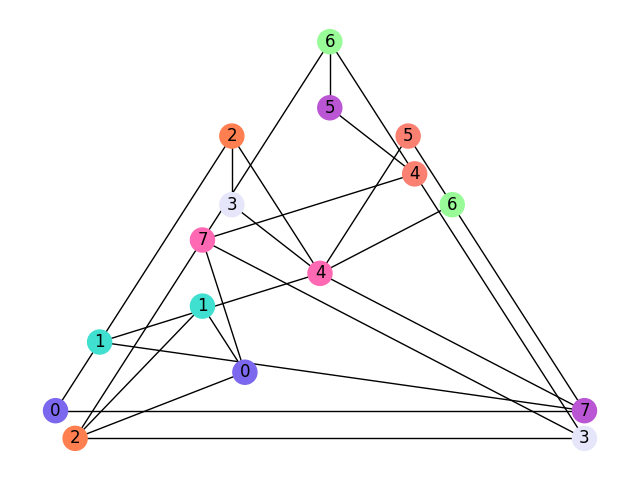
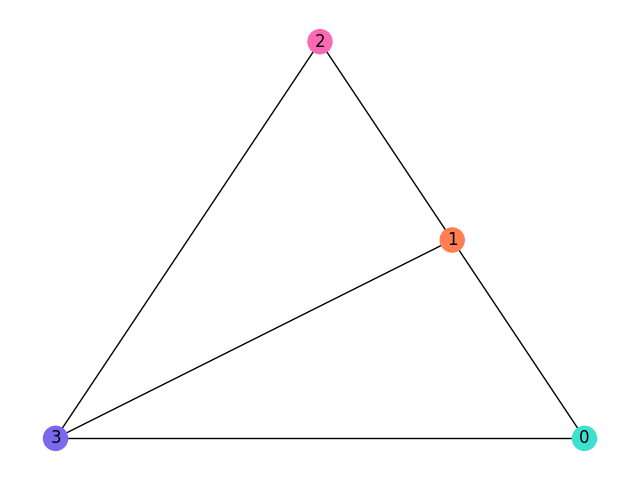
multiple rectangular

diff --git a/source/inputgraph.py b/source/inputgraph.py
@@ -119,6 +119,7 @@ class InputGraph:
         self.coordinates = [np.array(x) for x in node_coordinates]
         self.circular_traversal = []
         self.final_traversal=[]
+        self.graph_list =[]
 
         # Check if input has crossings
         x_coord = [x[0] for x in node_coordinates]
@@ -456,15 +457,15 @@ class InputGraph:
         # Biconnectivity Augmentation
         if (self.nodecnt == 2 and self.edgecnt == 1):
             self.fpcnt = 1
-            self.room_x = np.array([[0.0, 1.0]])
-            self.room_y = np.array([[0.0, 0.0]])
-            self.room_width = np.array([[1.0, 1.0]])
-            self.room_height = np.array([[1.0, 1.0]])
-            self.area = [[1.0, 1.0]]
-            self.mergednodes = [[]]
-            self.irreg_nodes1 = [[]]
-            self.irreg_nodes2 = [[]]
-            self.extranodes = [[]]
+            self.room_x = np.array([0.0, 1.0])
+            self.room_y = np.array([0.0, 0.0])
+            self.room_width = np.array([1.0, 1.0])
+            self.room_height = np.array([1.0, 1.0])
+            self.area =[1.0, 1.0]
+            self.mergednodes = []
+            self.irreg_nodes1 = []
+            self.irreg_nodes2 = []
+            self.extranodes = []
             self.rel_matrix_list = [np.array(
                 [[0, 3, 2, 0, 0, 0], [0, 0, 2, 3, 0, 0], [0, 0, 0, 1, 0, 1], [0, 0, 1, 0, 1, 0], [2, 2, 0, 1, 0, 1],
                  [3, 0, 1, 0, 1, 0]])]
@@ -507,13 +508,12 @@ class InputGraph:
             ptpg_matrices, extra_nodes = st.handle_STs(self.matrix, positions, 20)
 
             for cnt in range(len(ptpg_matrices)):
-# nodecnt, edgecnt, edgeset, node_coordinates)
-                nodecnt = ptpg_matrices[cnt].shape[0]
-                edgecnt = int(np.count_nonzero(ptpg_matrices[cnt] == 1) / 2)
-                g = nx.from_numpy_matrix(ptpg_matrices[cnt], create_using=nx.DiGraph)
-                edgeset = g.edges()
+                # nodecnt = ptpg_matrices[cnt].shape[0]
+                # edgecnt = int(np.count_nonzero(ptpg_matrices[cnt] == 1) / 2)
+                # g = nx.from_numpy_matrix(ptpg_matrices[cnt], create_using=nx.DiGraph)
+                # edgeset = g.edges()
                 
-                new_graph = InputGraph(nodecnt, edgecnt, edgeset) 
+                # new_graph = InputGraph(nodecnt, edgecnt, edgeset) 
 
                 self.matrix = ptpg_matrices[cnt]
                 self.nodecnt = self.matrix.shape[0]
@@ -532,14 +532,24 @@ class InputGraph:
                     matrix = copy.deepcopy(self.matrix)
                     rel_matrices = generate_multiple_rel(
                         bdys, matrix, self.nodecnt, self.edgecnt)
+                    
+
+                    g = nx.from_numpy_array(self.matrix, create_using=nx.DiGraph)
+                    edgeset = g.edges()
+                    
+                    new_graph = InputGraph(self.nodecnt, self.edgecnt, edgeset, self.coordinates)
+
                     for i in rel_matrices:
                         self.fpcnt += 1
+                        new_graph.rel_matrix_list = i
                         self.rel_matrix_list.append(i)
-                        self.mergednodes.append(mergednodes)
-                        self.irreg_nodes1.append(irreg_nodes1)
-                        self.irreg_nodes2.append(irreg_nodes2)
-                        self.extranodes.append(extranodes)
-                        self.nodecnt_list.append(self.nodecnt)
+                        new_graph.mergednodes= mergednodes
+                        new_graph.irreg_nodes1= irreg_nodes1
+                        new_graph.irreg_nodes2= irreg_nodes2
+                        new_graph.extranodes= extranodes
+                        new_graph.nodecnt_list= self.nodecnt
+                        self.graph_list.append(new_graph)
+
         else:
             mergednodes = []
             irreg_nodes1 = []
@@ -563,29 +573,36 @@ class InputGraph:
                 matrix = copy.deepcopy(self.matrix)
                 rel_matrices = generate_multiple_rel(
                     bdys, matrix, self.nodecnt, self.edgecnt)
+                
+                g = nx.from_numpy_array(self.matrix, create_using=nx.DiGraph)
+                edgeset = g.edges()
+                
+                new_graph = InputGraph(self.nodecnt, self.edgecnt, edgeset, self.coordinates)
+                
                 for i in rel_matrices:
                     self.fpcnt += 1
+                    new_graph.rel_matrix_list = i
                     self.rel_matrix_list.append(i)
-                    self.mergednodes.append([])
-                    self.irreg_nodes1.append([])
-                    self.irreg_nodes2.append([])
-                    self.extranodes.append(extranodes)
-                    self.nodecnt_list.append(self.nodecnt)
+                    new_graph.mergednodes = []
+                    new_graph.irreg_nodes1 = []
+                    new_graph.irreg_nodes2 = []
+                    new_graph.extranodes = extranodes
+                    new_graph.nodecnt_list = self.nodecnt
+                    self.graph_list.append(new_graph)
 
-        self.room_x = []
-        self.room_y = []
-        self.room_width = []
-        self.room_height = []
-        self.area = []
+
+        # self.room_x = []
+        # self.room_y = []
+        # self.room_width = []
+        # self.room_height = []
+        # self.area = []
+                    
         for cnt in range(self.fpcnt):
-            [room_x, room_y, room_width, room_height] = rdg.construct_dual(self.rel_matrix_list[cnt],
-                                                                           self.nodecnt_list[cnt] + 4,
-                                                                           self.mergednodes[cnt],
-                                                                           self.irreg_nodes1[cnt])
-            self.room_x.append(room_x)
-            self.room_y.append(room_y)
-            self.room_width.append(room_width)
-            self.room_height.append(room_height)
+            [self.graph_list[cnt].room_x, self.graph_list[cnt].room_y, self.graph_list[cnt].room_width, self.graph_list[cnt].room_height] = rdg.construct_dual(self.graph_list[cnt].rel_matrix_list,
+                                                                           self.graph_list[cnt].nodecnt_list + 4,
+                                                                           self.graph_list[cnt].mergednodes,
+                                                                           self.graph_list[cnt].irreg_nodes1)
+            
 
     def multiple_floorplan(self, min_width, min_height, max_width, max_height, symm_rooms, min_ar, max_ar, plot_width,
                            plot_height):

diff --git a/pythongui/catalogue_maker.py b/pythongui/catalogue_maker.py
@@ -113,7 +113,7 @@ def get_scale(rfp_data, grid_w=100, grid_h=100): #Calculates the scaling factor 
     return scale
 
 def draw_one_rfp(pdf: PDF, x, y, rfp_data, room_name = [], grid_w=100, grid_h=100, dimensioned = 0, scale_val = 1, is_rb = False):
-    em = make_encoded_matrix(len(rfp_data['room_x']), rfp_data['room_x'], rfp_data['room_y'], rfp_data['room_width'], rfp_data['room_height'])
+    em = make_encoded_matrix(len(rfp_data.room_x), rfp_data.room_x, rfp_data.room_y, rfp_data.room_width, rfp_data.room_height)
 
     # scale = get_scale(rfp_data, grid_w, grid_h)
     scale = scale_val
@@ -121,23 +121,23 @@ def draw_one_rfp(pdf: PDF, x, y, rfp_data, room_name = [], grid_w=100, grid_h=10
     
     flag = 0
     i=0
-    for each_room in range(len(rfp_data['room_x'])):
-        if each_room in rfp_data['extranodes']:
+    for each_room in range(len(rfp_data.room_x)):
+        if each_room in rfp_data.extranodes:
             continue
-        if each_room in rfp_data['mergednodes']:
+        if each_room in rfp_data.mergednodes:
             rgb_colors[each_room] = rgb_colors[
-                int (rfp_data['irreg_nodes'][
-                    rfp_data['mergednodes'].index(each_room)
+                int (rfp_data.irreg_nodes[
+                    rfp_data.mergednodes.index(each_room)
                     ])
                     ]
             flag = 1      
         pdf.set_fill_color(*rgb_colors[each_room])
         pdf.set_draw_color(0,0,0)
         pdf.rect( 
-        x + scale * round(rfp_data['room_x'][each_room], 1) ,
-        y + scale * round(rfp_data['room_y'][each_room], 1) , 
-        scale * round(rfp_data['room_width'][each_room], 1) , 
-        scale * round(rfp_data['room_height'][each_room], 1) ,
+        x + scale * round(rfp_data.room_x[each_room], 1) ,
+        y + scale * round(rfp_data.room_y[each_room], 1) , 
+        scale * round(rfp_data.room_width[each_room], 1) , 
+        scale * round(rfp_data.room_height[each_room], 1) ,
         'DF')
 
         if flag == 1:
@@ -172,18 +172,18 @@ def draw_one_rfp(pdf: PDF, x, y, rfp_data, room_name = [], grid_w=100, grid_h=10
                     if e != each_room:
                         bm.append(e)
             
-            i = rfp_data['mergednodes'].index(each_room)
-            irreg = rfp_data['irreg_nodes'][i]
+            i = rfp_data.mergednodes.index(each_room)
+            irreg = rfp_data.irreg_nodes[i]
 
-            x_m = rfp_data['room_x'][each_room]
-            y_m = rfp_data['room_y'][each_room]
-            w_m = rfp_data['room_width'][each_room]
-            h_m = rfp_data['room_height'][each_room]
+            x_m = rfp_data.room_x[each_room]
+            y_m = rfp_data.room_y[each_room]
+            w_m = rfp_data.room_width[each_room]
+            h_m = rfp_data.room_height[each_room]
 
-            x_i = rfp_data['room_x'][irreg]
-            y_i = rfp_data['room_y'][irreg]
-            w_i = rfp_data['room_width'][irreg]
-            h_i = rfp_data['room_height'][irreg]
+            x_i = rfp_data.room_x[irreg]
+            y_i = rfp_data.room_y[irreg]
+            w_i = rfp_data.room_width[irreg]
+            h_i = rfp_data.room_height[irreg]
 
             a,b,c = rgb_colors[each_room]
             pdf.set_draw_color(a,b,c)
@@ -211,15 +211,15 @@ def draw_one_rfp(pdf: PDF, x, y, rfp_data, room_name = [], grid_w=100, grid_h=10
             pdf.set_draw_color(0,0,0)             
 
         if dimensioned == 1:
-            if each_room not in rfp_data['mergednodes']:
+            if each_room not in rfp_data.mergednodes:
                 
                 if scale<1.5:
                     pdf.set_font_size(3*scale)
-                    if (rfp_data['room_y'][each_room]/rfp_data['room_x'][each_room]>0.8 
-                        and rfp_data['room_y'][each_room]/rfp_data['room_x'][each_room]<=1.2):
+                    if (rfp_data.room_y[each_room]/rfp_data.room_x[each_room]>0.8 
+                        and rfp_data.room_y[each_room]/rfp_data.room_x[each_room]<=1.2):
                         x_disp = 0.8
                         y_disp = 5*scale*0.9
-                    elif (rfp_data['room_y'][each_room]/rfp_data['room_x'][each_room]>1.2):    
+                    elif (rfp_data.room_y[each_room]/rfp_data.room_x[each_room]>1.2):    
                         x_disp = 0.8
                         y_disp = 7*scale*0.9
                     else:
@@ -236,26 +236,26 @@ def draw_one_rfp(pdf: PDF, x, y, rfp_data, room_name = [], grid_w=100, grid_h=10
                     pdf.set_font_size(0.8*scale)
                     
                 print(x,y)
-                print(rfp_data['room_x'][each_room], rfp_data['room_y'][each_room])
-                print("X={0}, Y={1}".format(x + scale * int(rfp_data['room_x'][each_room]) + x_disp,
-                    y + scale * int(rfp_data['room_y'][each_room]) + y_disp,))
+                print(rfp_data.room_x[each_room], rfp_data.room_y[each_room])
+                print("X={0}, Y={1}".format(x + scale * int(rfp_data.room_x[each_room]) + x_disp,
+                    y + scale * int(rfp_data.room_y[each_room]) + y_disp,))
                 
                 if is_rb == True:
                     pdf.text(
-                        x + scale * int(rfp_data['room_x'][each_room]) + x_disp,
-                        y + scale * int(rfp_data['room_y'][each_room]) + y_disp,
+                        x + scale * int(rfp_data.room_x[each_room]) + x_disp,
+                        y + scale * int(rfp_data.room_y[each_room]) + y_disp,
                         txt = str(room_name[i]))
                     i += 1
                     pdf.text(
-                        x + scale * int(rfp_data['room_x'][each_room]) + x_disp,
-                        y + scale * int(rfp_data['room_y'][each_room]) + y_disp + scale,
-                        txt = str(round(rfp_data['area'][each_room], 1)))
+                        x + scale * int(rfp_data.room_x[each_room]) + x_disp,
+                        y + scale * int(rfp_data.room_y[each_room]) + y_disp + scale,
+                        txt = str(round(rfp_data.area[each_room], 1)))
                     
                 else:
                     pdf.text(	
-                    x + scale * int(rfp_data['room_x'][each_room]) + x_disp,	
-                    y + scale * int(rfp_data['room_y'][each_room]) + y_disp,	
-                    txt = str(round(rfp_data['area'][each_room], 1)))
+                    x + scale * int(rfp_data.room_x[each_room]) + x_disp,	
+                    y + scale * int(rfp_data.room_y[each_room]) + y_disp,	
+                    txt = str(round(rfp_data.area[each_room], 1)))
         
         pdf.set_font_size(12.0)            
         line_width = 0.2

diff --git a/main.py b/main.py
@@ -188,7 +188,7 @@ def run():
                     graph.irreg_single_dual()
                     end = time.time()
                     printe("Time taken: " + str((end - start) * 1000) + " ms")
-                    gclass.output_data.append(graph) //TODO: check
+                    gclass.output_data.append(graph) #TODO: check
                     draw.draw_rdg(graph
                                   , 1
                                   , gclass.pen
@@ -623,19 +623,8 @@ def run():
                     gclass.multiple_output_found = 1
 
                     for idx in range(graph.fpcnt):
-                        graph_data = {
-                            'room_x': graph.room_x[idx],
-                            'room_y': graph.room_y[idx],
-                            'room_width': graph.room_width[idx],
-                            'room_height': graph.room_height[idx],
-                            'area': graph.area,
-                            'extranodes': graph.extranodes[idx],
-                            'mergednodes': graph.mergednodes[idx],
-                            'irreg_nodes': graph.irreg_nodes1[idx],
-                            'final_traversal': graph.final_traversal,
-                            'circular_traversal': graph.circular_traversal
-                        }
-                        gclass.output_data.append(graph_data)
+                        graph_new = graph.graph_list[idx]
+                        gclass.output_data.append(graph_new)
                         # draw.draw_rdg(graph_data
                         #     ,idx+1
                         #     ,gclass.pen
